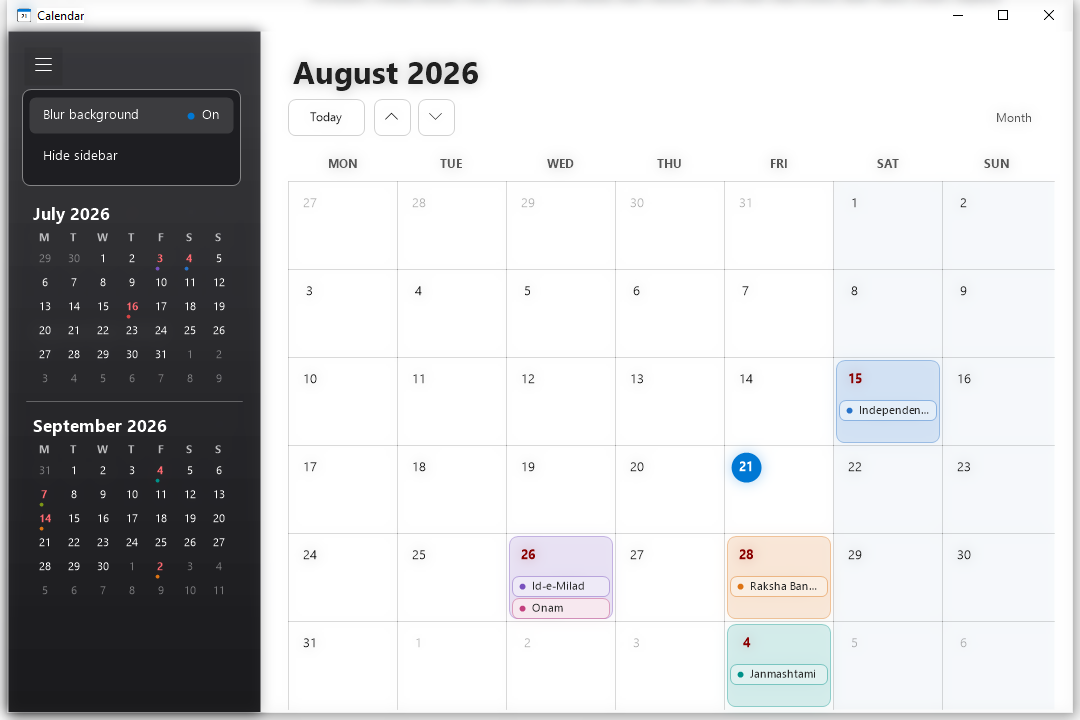
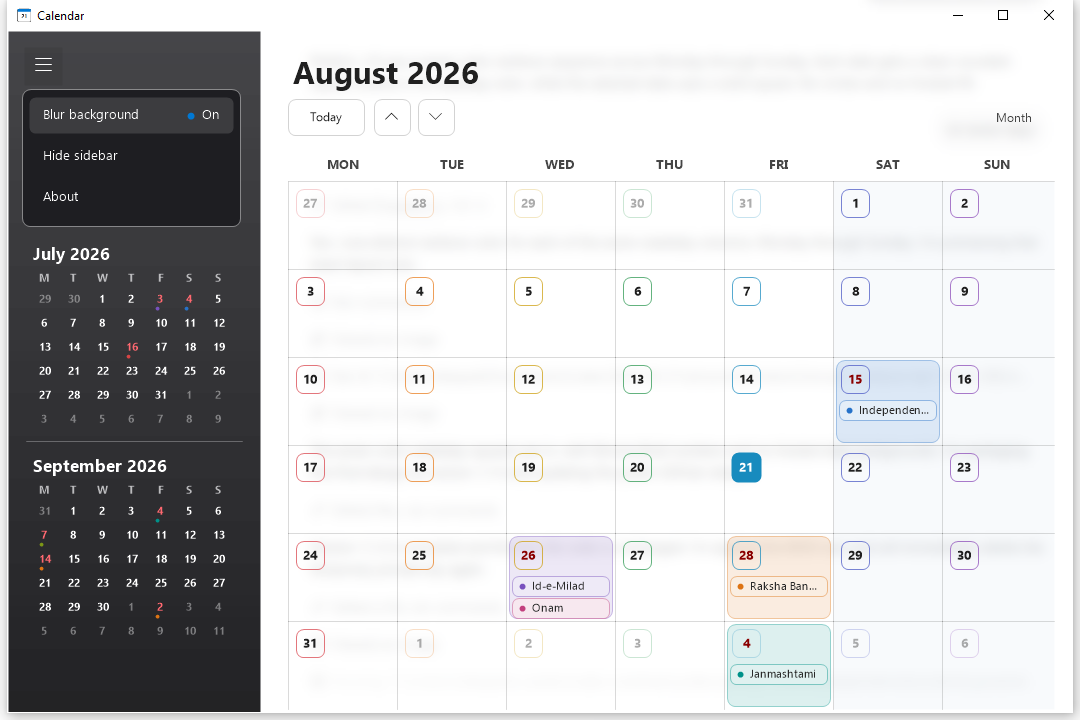
Release Simple Calendar 1.1.3

diff --git a/Program.cs b/Program.cs
@@ -1,5 +1,6 @@
 using System;
 using System.Collections.Generic;
+using System.Diagnostics;
 using System.Drawing;
 using System.Drawing.Drawing2D;
 using System.Globalization;
@@ -18,7 +19,7 @@ namespace SimpleCalendar
         [STAThread]
         private static void Main(string[] args)
         {
-            bool preview = args.Length > 0 && args[0] == "--preview";
+            bool preview = args.Length > 0 && (args[0] == "--preview" || args[0] == "--about-preview");
             if (args.Length == 2 && args[0] == "--make-icon")
             {
                 using (Icon icon = CalendarIcon.Create(DateTime.Today, Theme.Accent, 64))
@@ -39,7 +40,8 @@ namespace SimpleCalendar
             // Preview builds can skip package-only live-tile scheduling; normal
             // installed launches keep the widget update path exactly as before.
             if (!preview) TileService.UpdateAndSchedule();
-            Application.Run(new CalendarForm());
+            if (args.Length > 0 && args[0] == "--about-preview") Application.Run(new AboutDialog());
+            else Application.Run(new CalendarForm());
         }
     }
 
@@ -399,6 +401,81 @@ namespace SimpleCalendar
         }
     }
 
+    internal sealed class AboutDialog : Form
+    {
+        public AboutDialog()
+        {
+            bool dark = Theme.IsDark;
+            Color backgroundColor = dark ? Color.FromArgb(30, 30, 32) : Color.White;
+            Color foregroundColor = dark ? Color.FromArgb(242, 242, 242) : Color.FromArgb(32, 32, 32);
+            Color secondaryColor = dark ? Color.FromArgb(180, 180, 180) : Color.FromArgb(92, 92, 92);
+
+            Text = "About Simple Calendar";
+            StartPosition = FormStartPosition.CenterParent;
+            FormBorderStyle = FormBorderStyle.FixedDialog;
+            MaximizeBox = false;
+            MinimizeBox = false;
+            ShowInTaskbar = false;
+            ClientSize = new Size(390, 218);
+            BackColor = backgroundColor;
+            ForeColor = foregroundColor;
+            Font = (Font)SystemFonts.MessageBoxFont.Clone();
+            AutoScaleMode = AutoScaleMode.Dpi;
+
+            Label title = new Label
+            {
+                AutoSize = true,
+                Text = "Simple Calendar",
+                Location = new Point(28, 25),
+                ForeColor = foregroundColor,
+                Font = new Font(Font.FontFamily, 18F, FontStyle.Bold)
+            };
+            Label author = new Label
+            {
+                AutoSize = true,
+                Text = "Created by Onkar",
+                Location = new Point(30, 77),
+                ForeColor = secondaryColor,
+                Font = new Font(Font.FontFamily, 10.5F, FontStyle.Regular)
+            };
+            LinkLabel profile = new LinkLabel
+            {
+                AutoSize = true,
+                Text = "github.com/onkar-cybersec",
+                Location = new Point(30, 107),
+                LinkColor = Theme.Accent,
+                ActiveLinkColor = Theme.Accent,
+                VisitedLinkColor = Theme.Accent,
+                Font = new Font(Font.FontFamily, 10F, FontStyle.Regular)
+            };
+            profile.LinkClicked += delegate
+            {
+                try
+                {
+                    Process.Start(new ProcessStartInfo("https://github.com/onkar-cybersec")
+                    {
+                        UseShellExecute = true
+                    });
+                }
+                catch { }
+            };
+
+            Button close = new Button
+            {
+                Text = "Close",
+                DialogResult = DialogResult.OK,
+                Size = new Size(82, 32),
+                Location = new Point(ClientSize.Width - 110, ClientSize.Height - 52)
+            };
+            AcceptButton = close;
+            CancelButton = close;
+            Controls.Add(title);
+            Controls.Add(author);
+            Controls.Add(profile);
+            Controls.Add(close);
+        }
+    }
+
     internal sealed class CalendarCanvas : Control
     {
         private DateTime shownMonth;
@@ -407,7 +484,7 @@ namespace SimpleCalendar
         private bool blurEnabled = true;
         private bool menuVisible;
         private Rectangle hamburgerRect, todayRect, previousRect, nextRect;
-        private Rectangle menuRect, menuBlurRect, menuSidebarRect;
+        private Rectangle menuRect, menuBlurRect, menuSidebarRect, menuAboutRect;
         private Rectangle[,] dayRects = new Rectangle[6, 7];
         private Rectangle[,] previousMiniRects = new Rectangle[6, 7];
         private Rectangle[,] nextMiniRects = new Rectangle[6, 7];
@@ -458,7 +535,7 @@ namespace SimpleCalendar
                 ? Color.FromArgb(210, 14, 14, 17)
                 : Color.FromArgb(16, 16, 19);
             text = dark ? Color.FromArgb(245, 245, 245) : Color.FromArgb(32, 32, 32);
-            secondary = dark ? Color.FromArgb(188, 188, 188) : Color.FromArgb(88, 88, 88);
+            secondary = dark ? Color.FromArgb(188, 188, 188) : Color.FromArgb(70, 70, 70);
             grid = blurEnabled
                 ? (dark ? Color.FromArgb(54, 255, 255, 255) : Color.FromArgb(42, 32, 32, 32))
                 : (dark ? Color.FromArgb(61, 61, 61) : Color.FromArgb(225, 225, 225));
@@ -535,7 +612,7 @@ namespace SimpleCalendar
 
             int cellH = Height >= 620 ? 24 : menuVisible ? 17 : 21;
             int miniHeight = 28 + 18 + 6 * cellH;
-            int previousTop = menuVisible ? (Height >= 620 ? 170 : 160) : 76;
+            int previousTop = menuVisible ? (Height >= 620 ? 210 : 200) : 76;
             int nextTop = previousTop + miniHeight + 22;
             DrawMiniMonth(g, side, shownMonth.AddMonths(-1), previousTop, cellH, previousMiniRects);
             using (Pen p = new Pen(Color.FromArgb(72, 255, 255, 255)))
@@ -552,15 +629,15 @@ namespace SimpleCalendar
 
             int miniTop = top + 28;
             int cellW = Math.Max(22, (side - pad * 2) / 7);
-            using (Font f = UiFont(8F, FontStyle.Bold))
+            using (Font f = UiHeavyFont(8F))
             using (SolidBrush b = new SolidBrush(sidebarSecondary))
                 for (int c = 0; c < 7; c++)
                     DrawCentered(g, week[c].Substring(0, 1), f, b,
                         new Rectangle(pad + c * cellW, miniTop, cellW, 18));
 
             DateTime first = FirstGridDate(month);
-            using (Font f = UiFont(8F, FontStyle.Regular))
-            using (Font holidayDayFont = UiFont(8F, FontStyle.Bold))
+            using (Font f = UiHeavyFont(8F))
+            using (Font holidayDayFont = UiHeavyFont(8F))
             {
                 for (int r = 0; r < 6; r++)
                 for (int c = 0; c < 7; c++)
@@ -621,16 +698,16 @@ namespace SimpleCalendar
             int available = Width - x - 18;
             int colW = available / 7;
             int rowH = Math.Max(48, (Height - headerTop - 31) / 6);
-            using (Font f = UiFont(9.25F, FontStyle.Bold))
+            using (Font f = UiHeavyFont(9.75F))
             using (SolidBrush b = new SolidBrush(secondary))
                 for (int c = 0; c < 7; c++)
                     DrawCentered(g, week[c], f, b, new Rectangle(x + c * colW, headerTop, colW, 28));
 
             int gridTop = headerTop + 31;
             DateTime first = FirstGridDate(shownMonth);
-            using (Font numberFont = UiFont(10F, FontStyle.Regular))
-            using (Font todayFont = UiFont(10F, FontStyle.Bold))
-            using (Font holidayDateFont = UiFont(10F, FontStyle.Bold))
+            using (Font numberFont = UiHeavyFont(10F))
+            using (Font todayFont = UiHeavyFont(10F))
+            using (Font holidayDateFont = UiHeavyFont(10F))
             using (Font holidayFont = UiFont(8.5F, FontStyle.Regular))
             {
                 for (int r = 0; r < 6; r++)
@@ -664,14 +741,18 @@ namespace SimpleCalendar
                     bool isSelected = date.Date == selectedDate.Date;
                     Rectangle numberRect = new Rectangle(rect.Left + 7, rect.Top + 7, 30, 30);
                     Color holidayDateColor = isDarkTheme ? Color.FromArgb(255, 102, 110) : Color.FromArgb(138, 0, 0);
+                    Color dayFrame = DayFrameColor(c);
                     if (isSelected)
                     {
-                        Color selectedFill = holidays.Count > 0 ? holidayDateColor : accent;
-                        using (SolidBrush b = new SolidBrush(selectedFill)) g.FillEllipse(b, numberRect);
+                        using (SolidBrush b = new SolidBrush(dayFrame))
+                            g.FillRoundedRectangle(b, numberRect, 7);
                     }
-                    else if (isToday)
+                    else
                     {
-                        using (Pen p = new Pen(accent, 2F)) g.DrawEllipse(p, numberRect);
+                        int outlineAlpha = date.Month == shownMonth.Month ? 186 : 62;
+                        Color outline = Color.FromArgb(outlineAlpha, dayFrame);
+                        using (Pen p = new Pen(outline, isToday ? 2F : 1.25F))
+                            g.DrawRoundedRectangle(p, Rectangle.Inflate(numberRect, -1, -1), 7);
                     }
                     Color dc = date.Month == shownMonth.Month ? text : Color.FromArgb(115, secondary);
                     Color numberColor = isSelected ? accentText : holidays.Count > 0 ? holidayDateColor : dc;
@@ -685,9 +766,10 @@ namespace SimpleCalendar
 
         private void DrawHamburgerMenu(Graphics g)
         {
-            menuRect = new Rectangle(14, 58, 218, 96);
+            menuRect = new Rectangle(14, 58, 218, 137);
             menuBlurRect = new Rectangle(menuRect.Left + 7, menuRect.Top + 8, menuRect.Width - 14, 36);
             menuSidebarRect = new Rectangle(menuRect.Left + 7, menuRect.Top + 49, menuRect.Width - 14, 36);
+            menuAboutRect = new Rectangle(menuRect.Left + 7, menuRect.Top + 90, menuRect.Width - 14, 36);
 
             bool darkSidebarMenu = sidebarVisible && Width >= 760;
             Color surface = darkSidebarMenu ? Color.FromArgb(255, 30, 30, 34)
@@ -709,6 +791,7 @@ namespace SimpleCalendar
                 g.DrawString(state, f, b, menuBlurRect.Right - size.Width - 12, menuBlurRect.Top + 8);
                 g.DrawString(sidebarVisible ? "Hide sidebar" : "Show sidebar", f, b,
                     menuSidebarRect.Left + 12, menuSidebarRect.Top + 8);
+                g.DrawString("About", f, b, menuAboutRect.Left + 12, menuAboutRect.Top + 8);
             }
             using (SolidBrush b = new SolidBrush(blurEnabled ? accent : secondary))
                 g.FillEllipse(b, menuBlurRect.Right - 46, menuBlurRect.Top + 15, 7, 7);
@@ -777,6 +860,13 @@ namespace SimpleCalendar
                     sidebarVisible = !sidebarVisible;
                     menuVisible = false;
                     Invalidate();
+                    return;
+                }
+                if (menuAboutRect.Contains(e.Location))
+                {
+                    menuVisible = false;
+                    Invalidate();
+                    using (AboutDialog about = new AboutDialog()) about.ShowDialog(FindForm());
                     return;
                 }
                 menuVisible = false;
@@ -939,6 +1029,21 @@ namespace SimpleCalendar
             }
         }
 
+        private static Color DayFrameColor(int column)
+        {
+            Color[] rainbow =
+            {
+                Color.FromArgb(216, 67, 75),
+                Color.FromArgb(232, 124, 28),
+                Color.FromArgb(204, 158, 12),
+                Color.FromArgb(42, 151, 79),
+                Color.FromArgb(24, 139, 190),
+                Color.FromArgb(72, 87, 196),
+                Color.FromArgb(139, 73, 184)
+            };
+            return rainbow[Math.Max(0, Math.Min(6, column))];
+        }
+
         private static Color Mix(Color first, Color second, float secondWeight)
         {
             float firstWeight = 1F - secondWeight;
@@ -983,6 +1088,14 @@ namespace SimpleCalendar
         private static Font UiFont(float size, FontStyle style)
         {
             return new Font(SystemFonts.MessageBoxFont.FontFamily, size, style, GraphicsUnit.Point);
+        }
+
+        private static Font UiHeavyFont(float size)
+        {
+            Font adlam = new Font("Ebrima", size, FontStyle.Bold, GraphicsUnit.Point);
+            if (String.Equals(adlam.Name, "Ebrima", StringComparison.OrdinalIgnoreCase)) return adlam;
+            adlam.Dispose();
+            return UiFont(size, FontStyle.Bold);
         }
 
         private static Rectangle CenterSquare(Rectangle rect, int size)

diff --git a/README.md b/README.md
@@ -8,19 +8,24 @@ A lightweight, offline Windows 10 calendar with a real glass background, a compa
 
 - Frosted white glass that reveals and blurs the apps behind the calendar.
 - Glossy black sidebar with the previous and next month at a glance.
-- Larger bold weekday headings and bold blood-red holiday dates.
+- Ebrima Bold date numbers and weekday headings for clear reading over glass.
+- Seven rainbow colors outline the seven weekday columns with clean rounded squares.
+- Bold blood-red holiday and festival dates.
 - Different accent colors for holiday and festival cards, including multi-event days.
 - India national holidays, selected 2026 Hindu/regional festivals, and U.S. federal holidays (including observed weekdays).
 - Blur and sidebar controls live inside the hamburger menu.
+- An About menu shows “Created by Onkar” with a clickable GitHub profile link.
 - Small Windows live tile keeps its centered, medium-weight date design.
 - Native Windows system UI font and DPI-aware drawing.
 - Fully offline and free of ads or telemetry.
 
 ![Simple Calendar hamburger menu](calendar-menu.png)
 
+![Simple Calendar About dialog](calendar-about.png)
+
 ## Download and run
 
-Open the repository's **Releases** page and download the files for version 1.1.2.
+Open the repository's **Releases** page and download the files for version 1.1.3.
 
 ### Portable version
 

diff --git a/CHANGELOG.md b/CHANGELOG.md
@@ -1,5 +1,13 @@
 # Changelog
 
+## 1.1.3 - 2026-08-21
+
+- Added seven rainbow-colored rounded-square outlines across Monday through Sunday.
+- Switched date numbers and weekday headings to Ebrima Bold for stronger contrast.
+- Removed the experimental frosted date-number backgrounds.
+- Added an About option to the hamburger menu.
+- Added “Created by Onkar” and a clickable link to `github.com/onkar-cybersec`.
+
 ## 1.1.2 - 2026-08-21
 
 - Replaced the blue sidebar with a glossy black finish.
